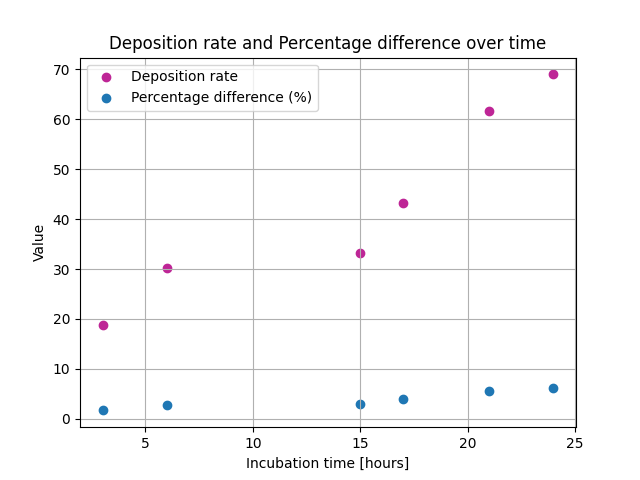
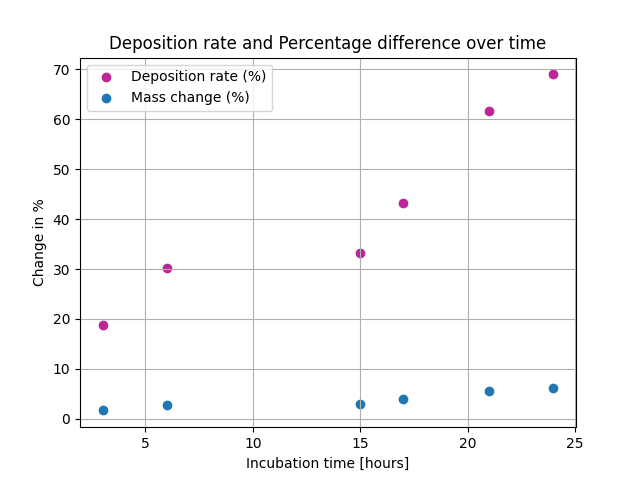
deposition rate

Changed region(s): [[0.1875, 0.125, 0.5, 0.2188], [0.0312, 0.4062, 0.0938, 0.5938]]

diff --git a/Deposition.py b/Deposition.py
@@ -109,7 +109,7 @@ for i in range(len(time)):
 
 plt.figure()
 plt.scatter(time, deposition_rate, label='Deposition rate', color='#be2596')
-plt.ylim(0, 0.5)
+plt.ylim(0, 85)
 plt.xlabel('Incubation time [hours]')
 plt.ylabel('Deposition rate')
 plt.title('Depositon rate over time')
@@ -124,14 +124,16 @@ print(deposition_rate)
 
 plt.figure()
 # Plotting deposition rate
-plt.scatter(time, deposition_rate, label='Deposition rate', color='#be2596')
+plt.scatter(time, deposition_rate, label='Deposition rate (%)', color='#be2596')
 # Plotting percentage difference
-plt.scatter(time, difference, label='Percentage difference (%)')
+plt.scatter(time, difference, label='Mass change (%)')
 #plt.ylim(0, max(0.5, max(deposition_rate)))  # Adjusting y-axis limit
 plt.xlabel('Incubation time [hours]')
-plt.ylabel('Value')
+plt.ylabel('Change in %')
 plt.title('Deposition rate and Percentage difference over time')
 plt.grid(True)
 plt.legend()
 plt.savefig('combined_plot.png')
 plt.show()
+
+
